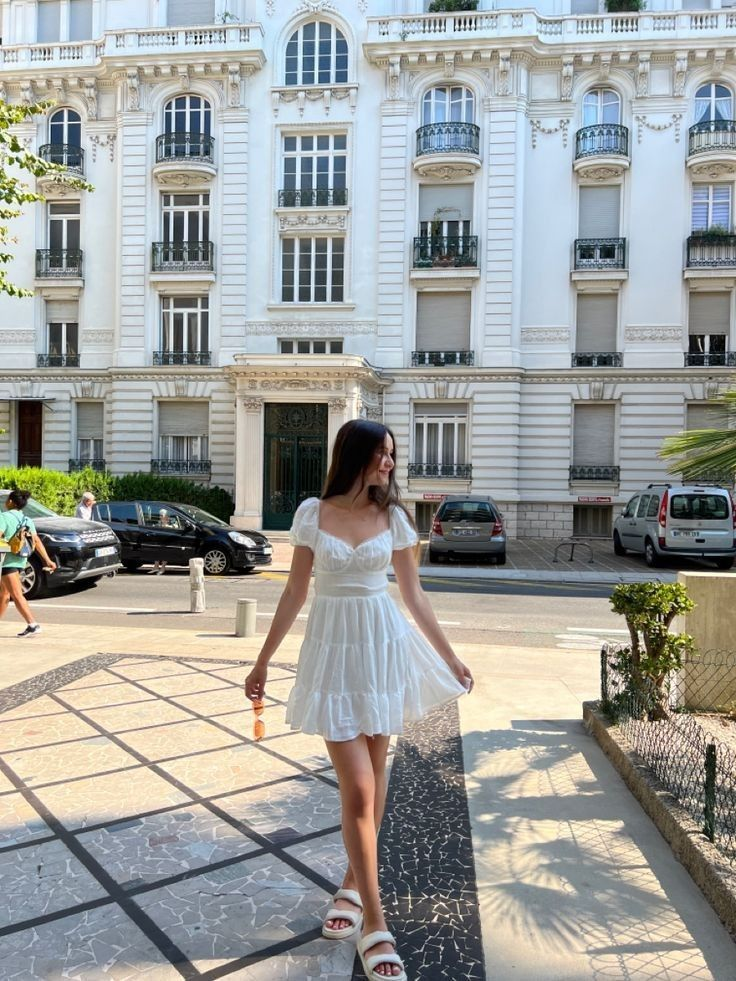
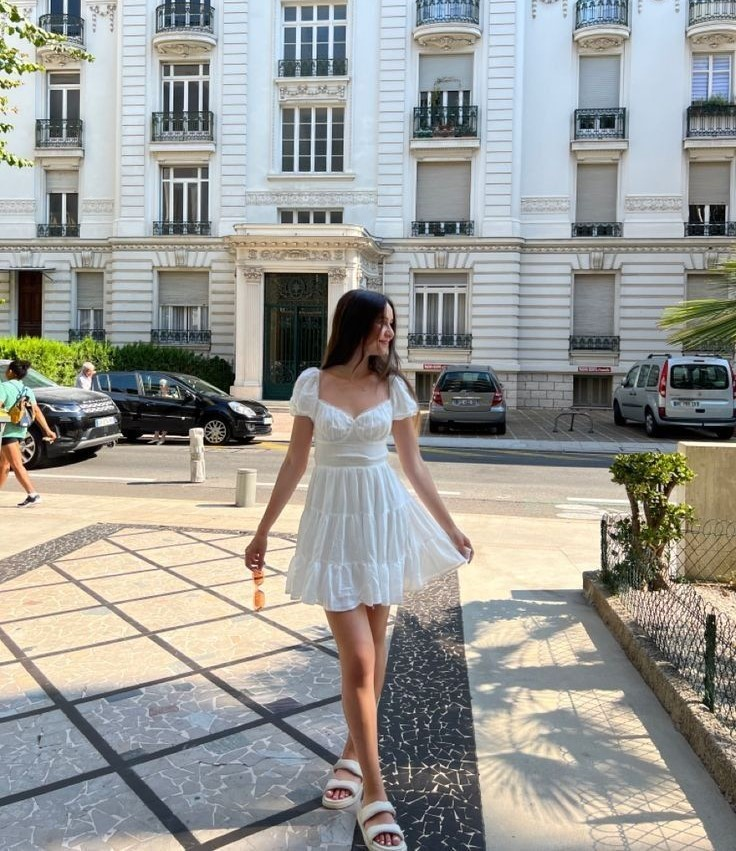
new page changes made

diff --git a/women.html b/women.html
@@ -60,7 +60,7 @@
                 <div class="p3-wrapper">
 
                 </div>
-                <div class="p3-img" style="background-image: url('catagory-images/men/men indian 1.webp'); background-position: center;background-size: cover;">
+                <div class="p3-img" style="background-image: url('display-images/ph wo 4.jpg'); background-position: center;background-size: cover;">
                 </div>
                 <div class="p3-links">
 
@@ -165,14 +165,14 @@
             </div>
         </div>
        
-        <div class="product5">
-            <div class="p5-content">
-                <div class="p5-wrapper">
+        <div class="product7">
+            <div class="p7-content">
+                <div class="p7-wrapper">
 
                 </div>
-                <div class="p5-img" style="background-image: url('display-images/ph men 14.jpg');">
+                <div class="p7-img" style="background-image: url('display-images/ph wo 15.jpg');">
                 </div>
-                <div class="p5-links">
+                <div class="p7-links">
 
                 </div>
             </div>
@@ -185,7 +185,7 @@
     
                     </div>
                     <div class="pr1-img">
-                        <figure class="pr-img-bg" style="background-image: url('catagory-images/men/men indian 2.webp');"></figure>
+                        <figure class="pr-img-bg" style="background-image: url('display-images/ph wo 14.jpg');"></figure>
                     </div>
                     <div class="pr1-links">
     
@@ -198,7 +198,7 @@
     
                     </div>
                     <div class="pr2-img">
-                        <figure class="pr-img-bg"  style="background-image: url('catagory-images/men/men indian 3.webp');"></figure>
+                        <figure class="pr-img-bg"  style="background-image: url('display-images/ph wo 9.jpg');"></figure>
                     </div>
                     <div class="pr2-links">
                     </div>
@@ -219,15 +219,30 @@
             </div>
         </div>
 
-        <div class="product5">
-            <div class="p5-content">
-                <div class="p5-wrapper">
-
+        <div class="product-grp-1">
+            <div class="pr1">
+                <div class="pr1-content">
+                    <div class="pr1-wrapper">
+    
+                    </div>
+                    <div class="pr1-img">
+                        <figure class="pr-img-bg" style="background-image: url('display-images/ph wo 11.jpg');"></figure>
+                    </div>
+                    <div class="pr1-links">
+    
+                    </div>
                 </div>
-                <div class="p5-img" style="background-image: url('display-images/ph men 15.jpg');">
-                </div>
-                <div class="p5-links">
-
+            </div>
+            <div class="pr2">
+                <div class="pr2-content">
+                    <div class="pr2-wrapper">
+    
+                    </div>
+                    <div class="pr2-img">
+                        <figure class="pr-img-bg"  style="background-image: url('display-images/ph wo 16.jpg');"></figure>
+                    </div>
+                    <div class="pr2-links">
+                    </div>
                 </div>
             </div>
         </div>

diff --git a/css/style-main.css b/css/style-main.css
@@ -216,7 +216,7 @@ body{
   padding: 4px;
 }
 
-.product1, .product2, .product3, .product4, .product5, .product6 {
+.product1, .product2, .product3, .product4, .product5, .product6, .product7 {
   width: 100%;
   padding-top: 40px;
 }
@@ -244,6 +244,15 @@ body{
   background-size: cover; 
   width: 100%; 
   height: 200px; 
+  margin-left: 0%;
+  margin-right: 0%;
+}
+
+.p7-img{
+  background-position: center;
+  background-size: cover; 
+  width: 100%; 
+  height: 1000px; 
   margin-left: 0%;
   margin-right: 0%;
 }
